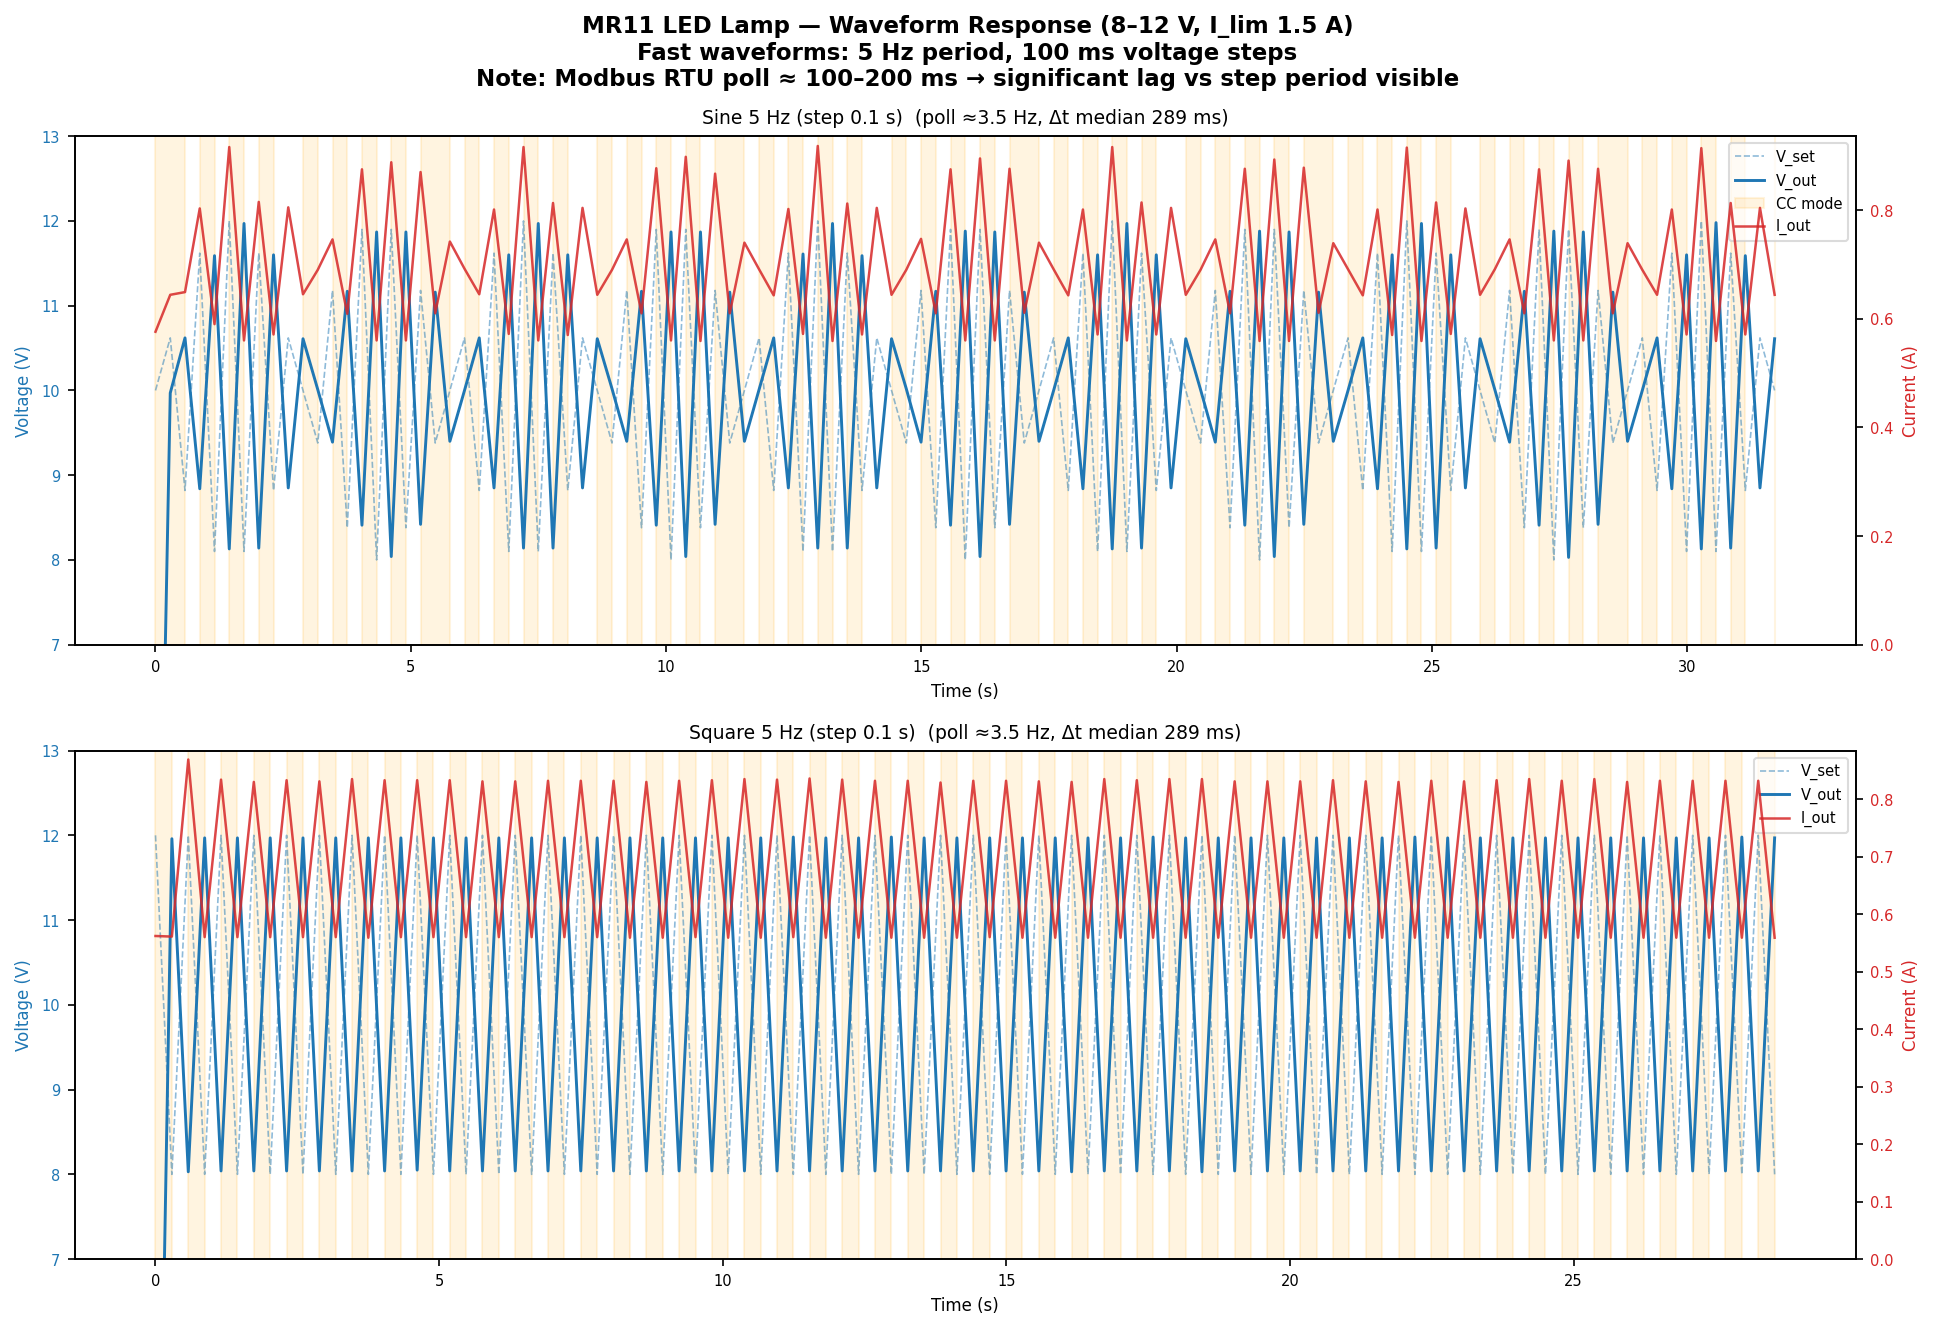
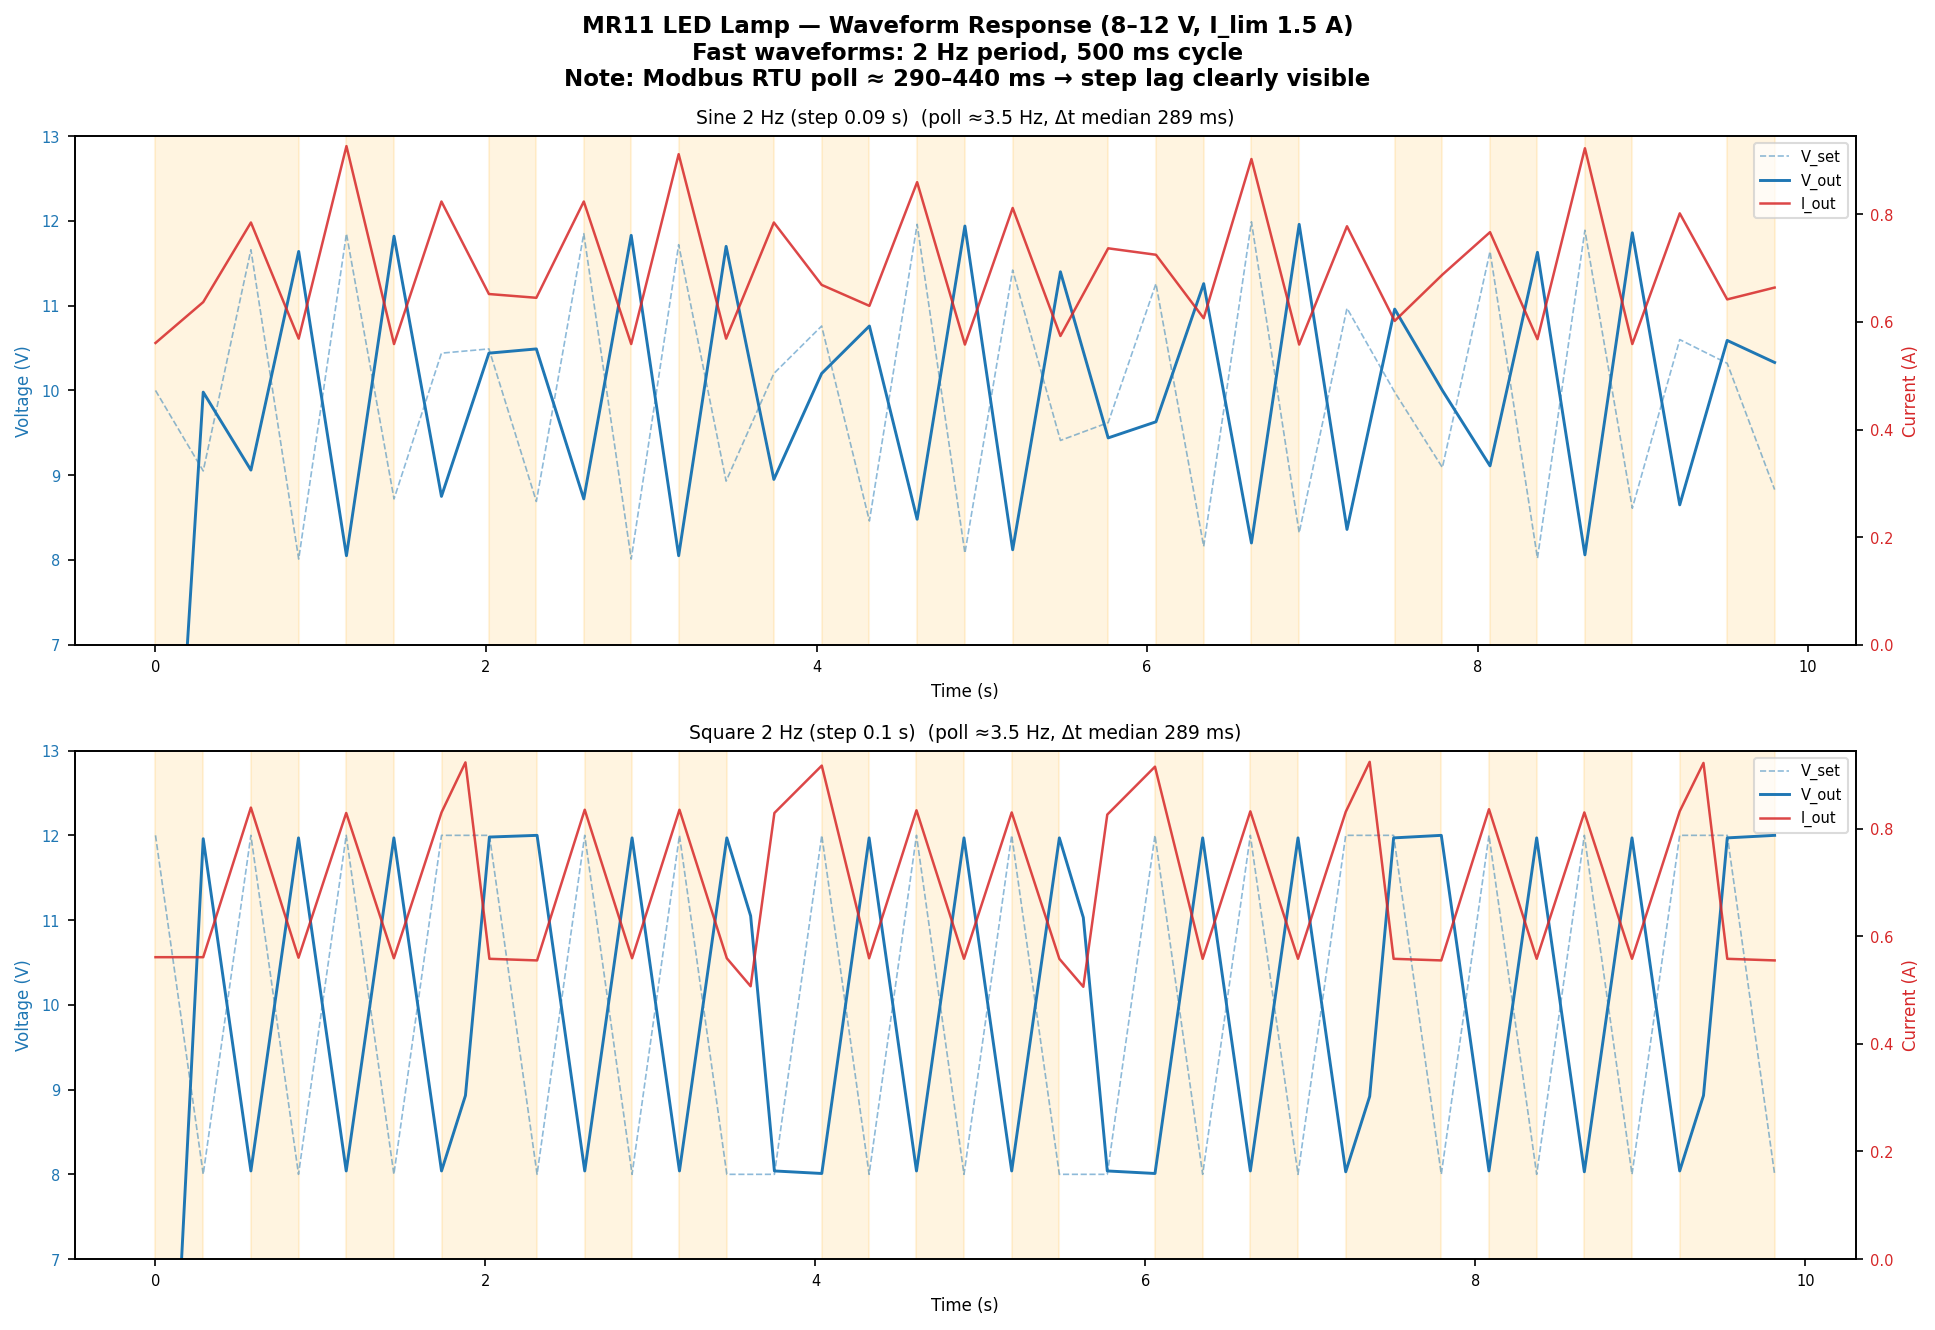
Update waveforms: continuous tight-loop poll, 0.5/2 Hz, measured floor 289ms

diff --git a/scripts/waveform_capture.py b/scripts/waveform_capture.py
@@ -18,11 +18,11 @@ V_AMP    = 2.0   # 8–12 V
 
 captures = [
     # sine step must NOT be a multiple of 1/(2*freq) to avoid aliasing where sin(nπ)=0
-    ("sine",     1.0, 0.45, 10, "/tmp/wf_sine_1s.jsonl"),
-    ("triangle", 1.0, 0.5,  10, "/tmp/wf_tri_1s.jsonl"),
-    ("square",   1.0, 0.5,  10, "/tmp/wf_sq_1s.jsonl"),
-    ("sine",     5.0, 0.09, 10, "/tmp/wf_sine_fast.jsonl"),
-    ("square",   5.0, 0.1,  10, "/tmp/wf_sq_fast.jsonl"),
+    ("sine",     0.5, 0.45, 20, "/tmp/wf_sine_slow.jsonl"),
+    ("triangle", 0.5, 0.5,  20, "/tmp/wf_tri_slow.jsonl"),
+    ("square",   0.5, 0.5,  20, "/tmp/wf_sq_slow.jsonl"),
+    ("sine",     2.0, 0.09, 10, "/tmp/wf_sine_fast.jsonl"),
+    ("square",   2.0, 0.1,  10, "/tmp/wf_sq_fast.jsonl"),
 ]
 
 tr = SerialTransport(PORT, 115200, 1)
@@ -35,13 +35,14 @@ for shape, freq, step, dur, log_path in captures:
     psu.set_v_set(8.0)
     psu.set_output(True)
     t0 = time.perf_counter()
-    steps_n = int(dur / step)
-    for n in range(steps_n):
-        target = t0 + n * step
-        wait = target - time.perf_counter()
-        if wait > 0:
-            time.sleep(wait)
-        phase = (n * step * freq) % 1.0
+    last_v_set = None
+    while True:
+        now = time.perf_counter()
+        elapsed = now - t0
+        if elapsed >= dur:
+            break
+        # Target voltage based on continuous time (not step-quantised)
+        phase = (elapsed * freq) % 1.0
         if shape == "sine":
             v = V_CENTER + V_AMP * math.sin(2 * math.pi * phase)
         elif shape == "triangle":
@@ -49,7 +50,9 @@ for shape, freq, step, dur, log_path in captures:
         else:  # square
             v = (V_CENTER + V_AMP) if phase < 0.5 else (V_CENTER - V_AMP)
         v = max(8.0, min(12.0, round(v, 2)))
-        psu.set_v_set(v)
+        if v != last_v_set:
+            psu.set_v_set(v)
+            last_v_set = v
         raw   = tr.read(REG_VOUT, REG_CNT)
         v_out = round(psu.get_v_out(raw[0]), 3)
         i_out = round(psu.get_i_out(raw[1]), 4)

diff --git a/scripts/plot_waveforms.py b/scripts/plot_waveforms.py
@@ -81,14 +81,14 @@ def plot_waveform_panel(ax, rows, label, color_v="#1f77b4", color_i="#d62728"):
 
 # --- Slow waveforms (1 Hz, 0.5s step) ---
 slow_files = [
-    ("/tmp/wf_sine_1s.jsonl",   "Sine 1 Hz (step 0.5 s)"),
-    ("/tmp/wf_tri_1s.jsonl",    "Triangle 1 Hz (step 0.5 s)"),
-    ("/tmp/wf_sq_1s.jsonl",     "Square 1 Hz (step 0.5 s)"),
+    ("/tmp/wf_sine_slow.jsonl",   "Sine 0.5 Hz (step 0.45 s)"),
+    ("/tmp/wf_tri_slow.jsonl",    "Triangle 0.5 Hz (step 0.5 s)"),
+    ("/tmp/wf_sq_slow.jsonl",     "Square 0.5 Hz (step 0.5 s)"),
 ]
 
 fig, axes = plt.subplots(3, 1, figsize=(13, 12), tight_layout=True)
 fig.suptitle("MR11 LED Lamp — Waveform Response (8–12 V, I_lim 1.5 A)\n"
-             "Slow waveforms: 1 Hz period, 500 ms voltage steps",
+             "Slow waveforms: 0.5 Hz period, 2 s cycle",
              fontsize=11, fontweight="bold")
 for ax, (path, label) in zip(axes, slow_files):
     plot_waveform_panel(ax, load(path), label)
@@ -100,14 +100,14 @@ print(f"Saved: {out_slow}")
 
 # --- Fast waveforms (5 Hz, 0.1s step) ---
 fast_files = [
-    ("/tmp/wf_sine_fast.jsonl", "Sine 5 Hz (step 0.1 s)"),
-    ("/tmp/wf_sq_fast.jsonl",   "Square 5 Hz (step 0.1 s)"),
+    ("/tmp/wf_sine_fast.jsonl", "Sine 2 Hz (step 0.09 s)"),
+    ("/tmp/wf_sq_fast.jsonl",   "Square 2 Hz (step 0.1 s)"),
 ]
 
 fig, axes = plt.subplots(2, 1, figsize=(13, 9), tight_layout=True)
 fig.suptitle("MR11 LED Lamp — Waveform Response (8–12 V, I_lim 1.5 A)\n"
-             "Fast waveforms: 5 Hz period, 100 ms voltage steps\n"
-             "Note: Modbus RTU poll ≈ 100–200 ms → significant lag vs step period visible",
+             "Fast waveforms: 2 Hz period, 500 ms cycle\n"
+             "Note: Modbus RTU poll ≈ 290–440 ms → step lag clearly visible",
              fontsize=11, fontweight="bold")
 for ax, (path, label) in zip(axes, fast_files):
     plot_waveform_panel(ax, load(path), label)